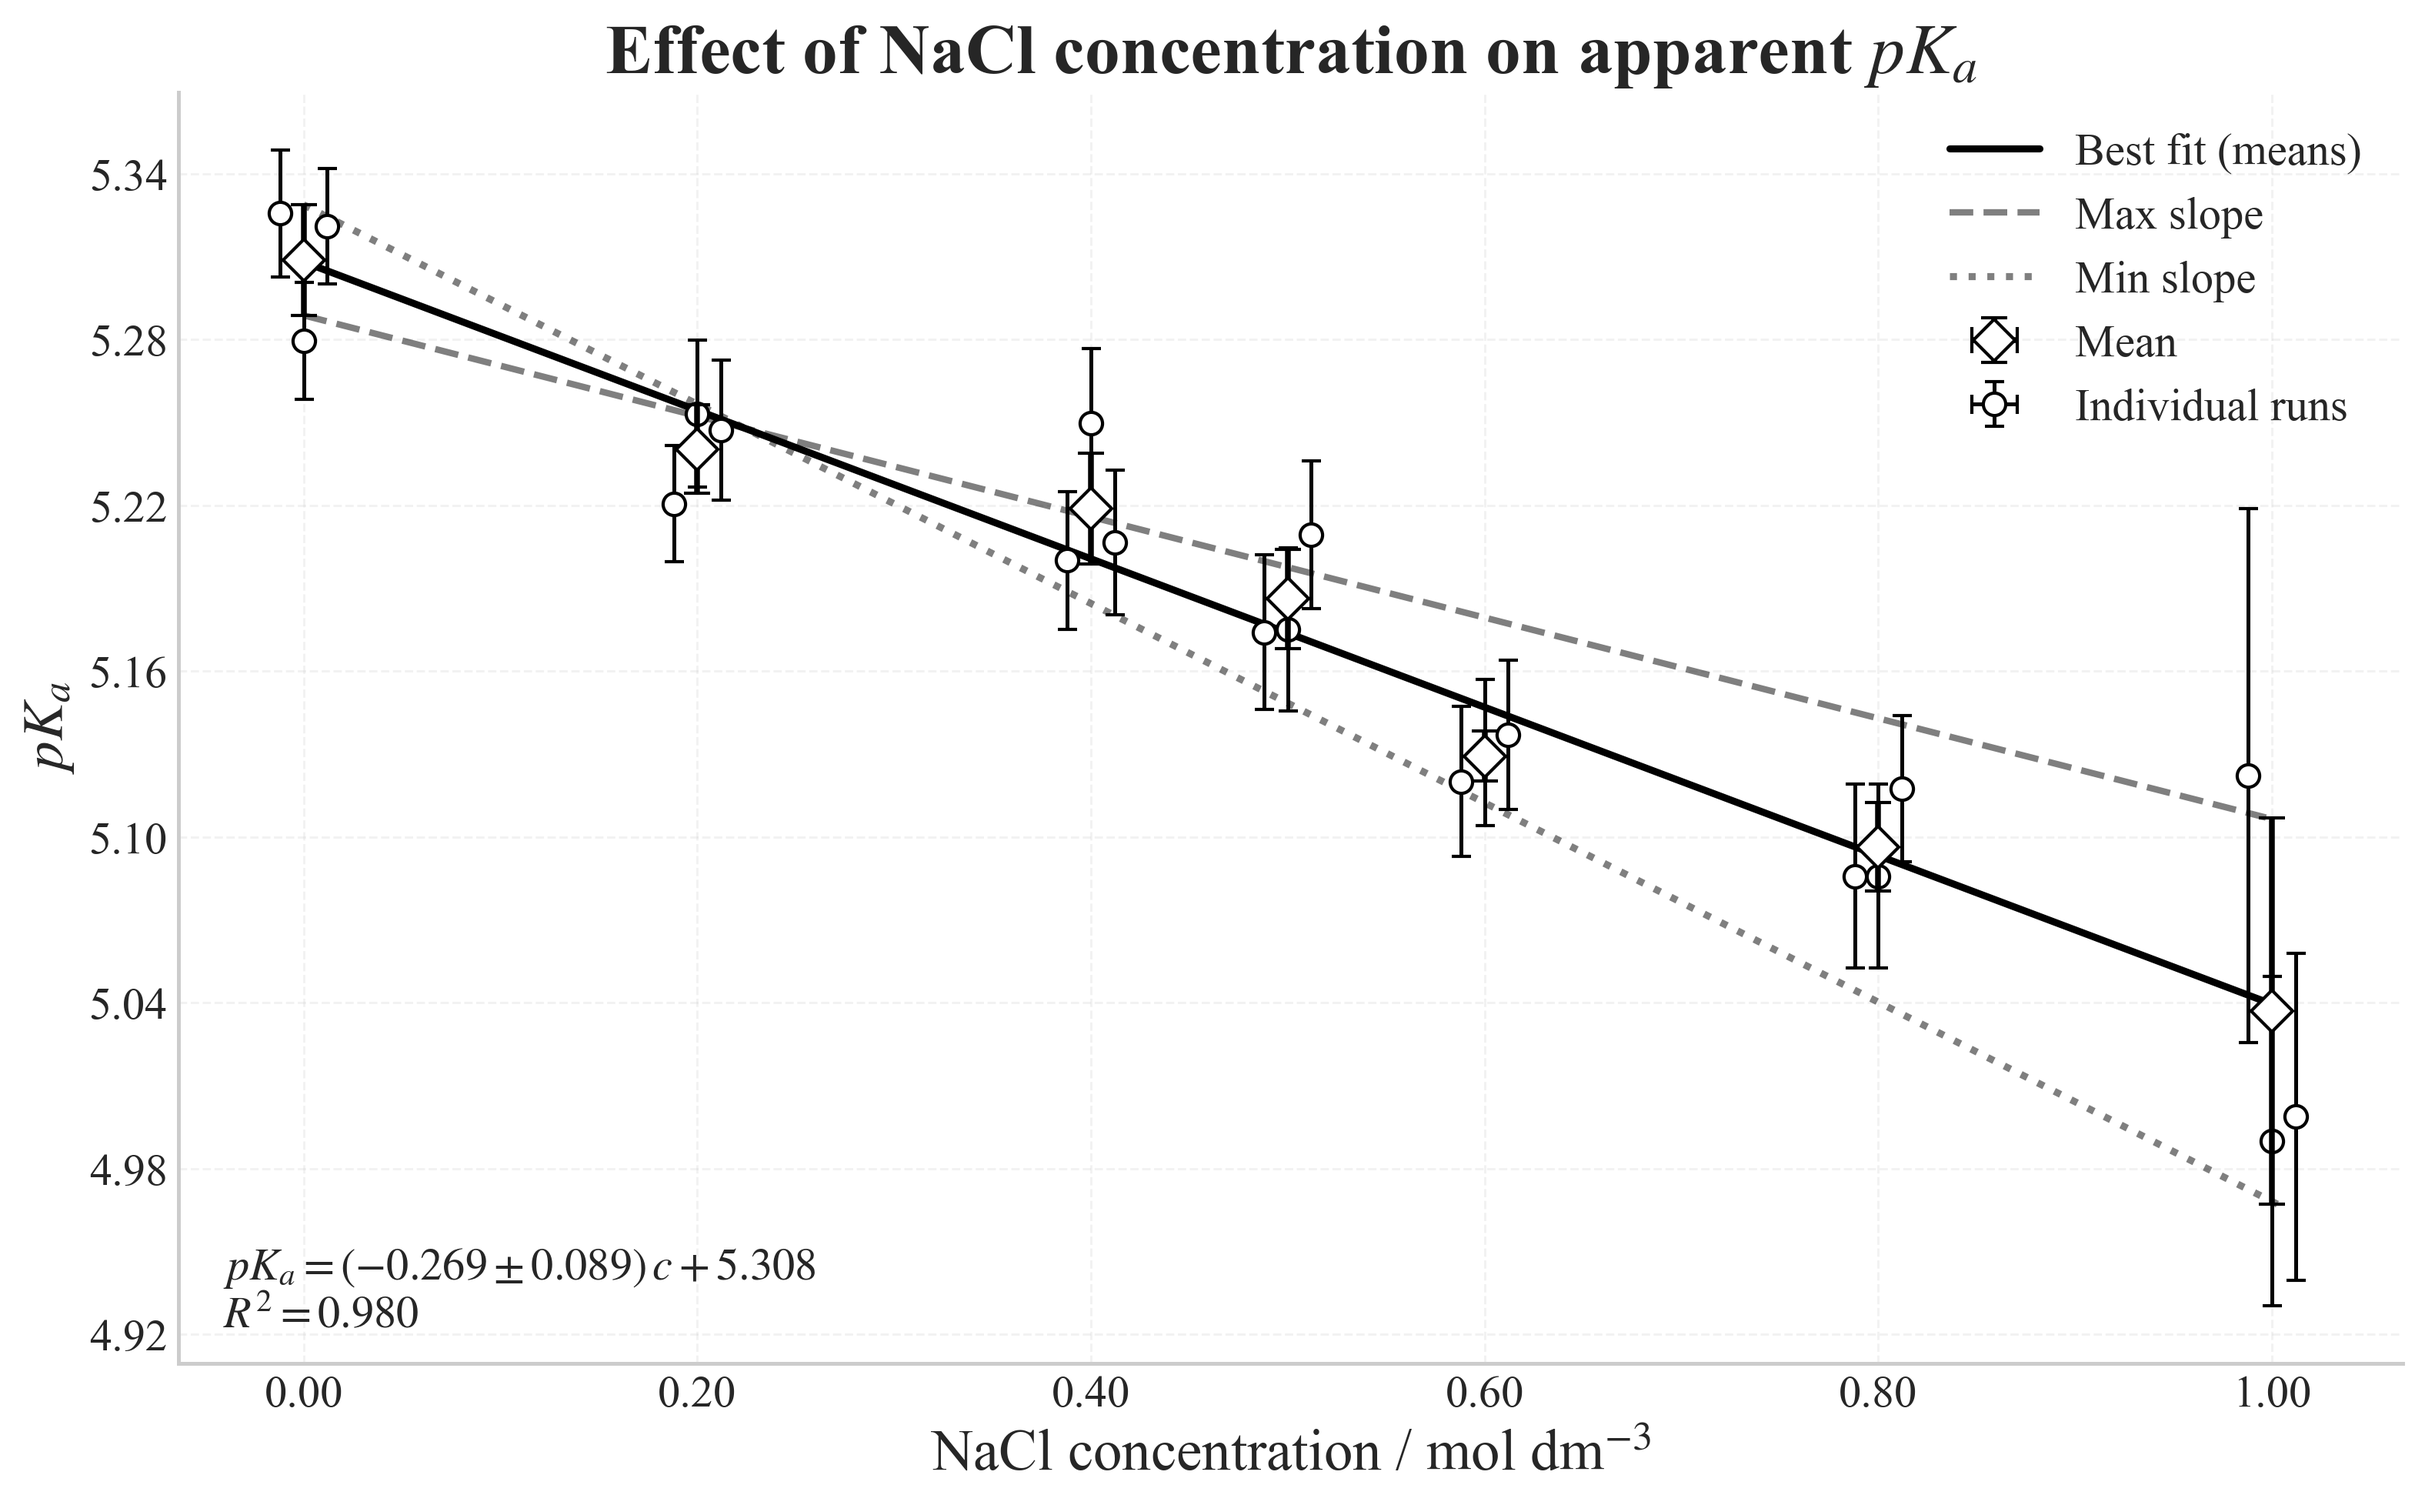
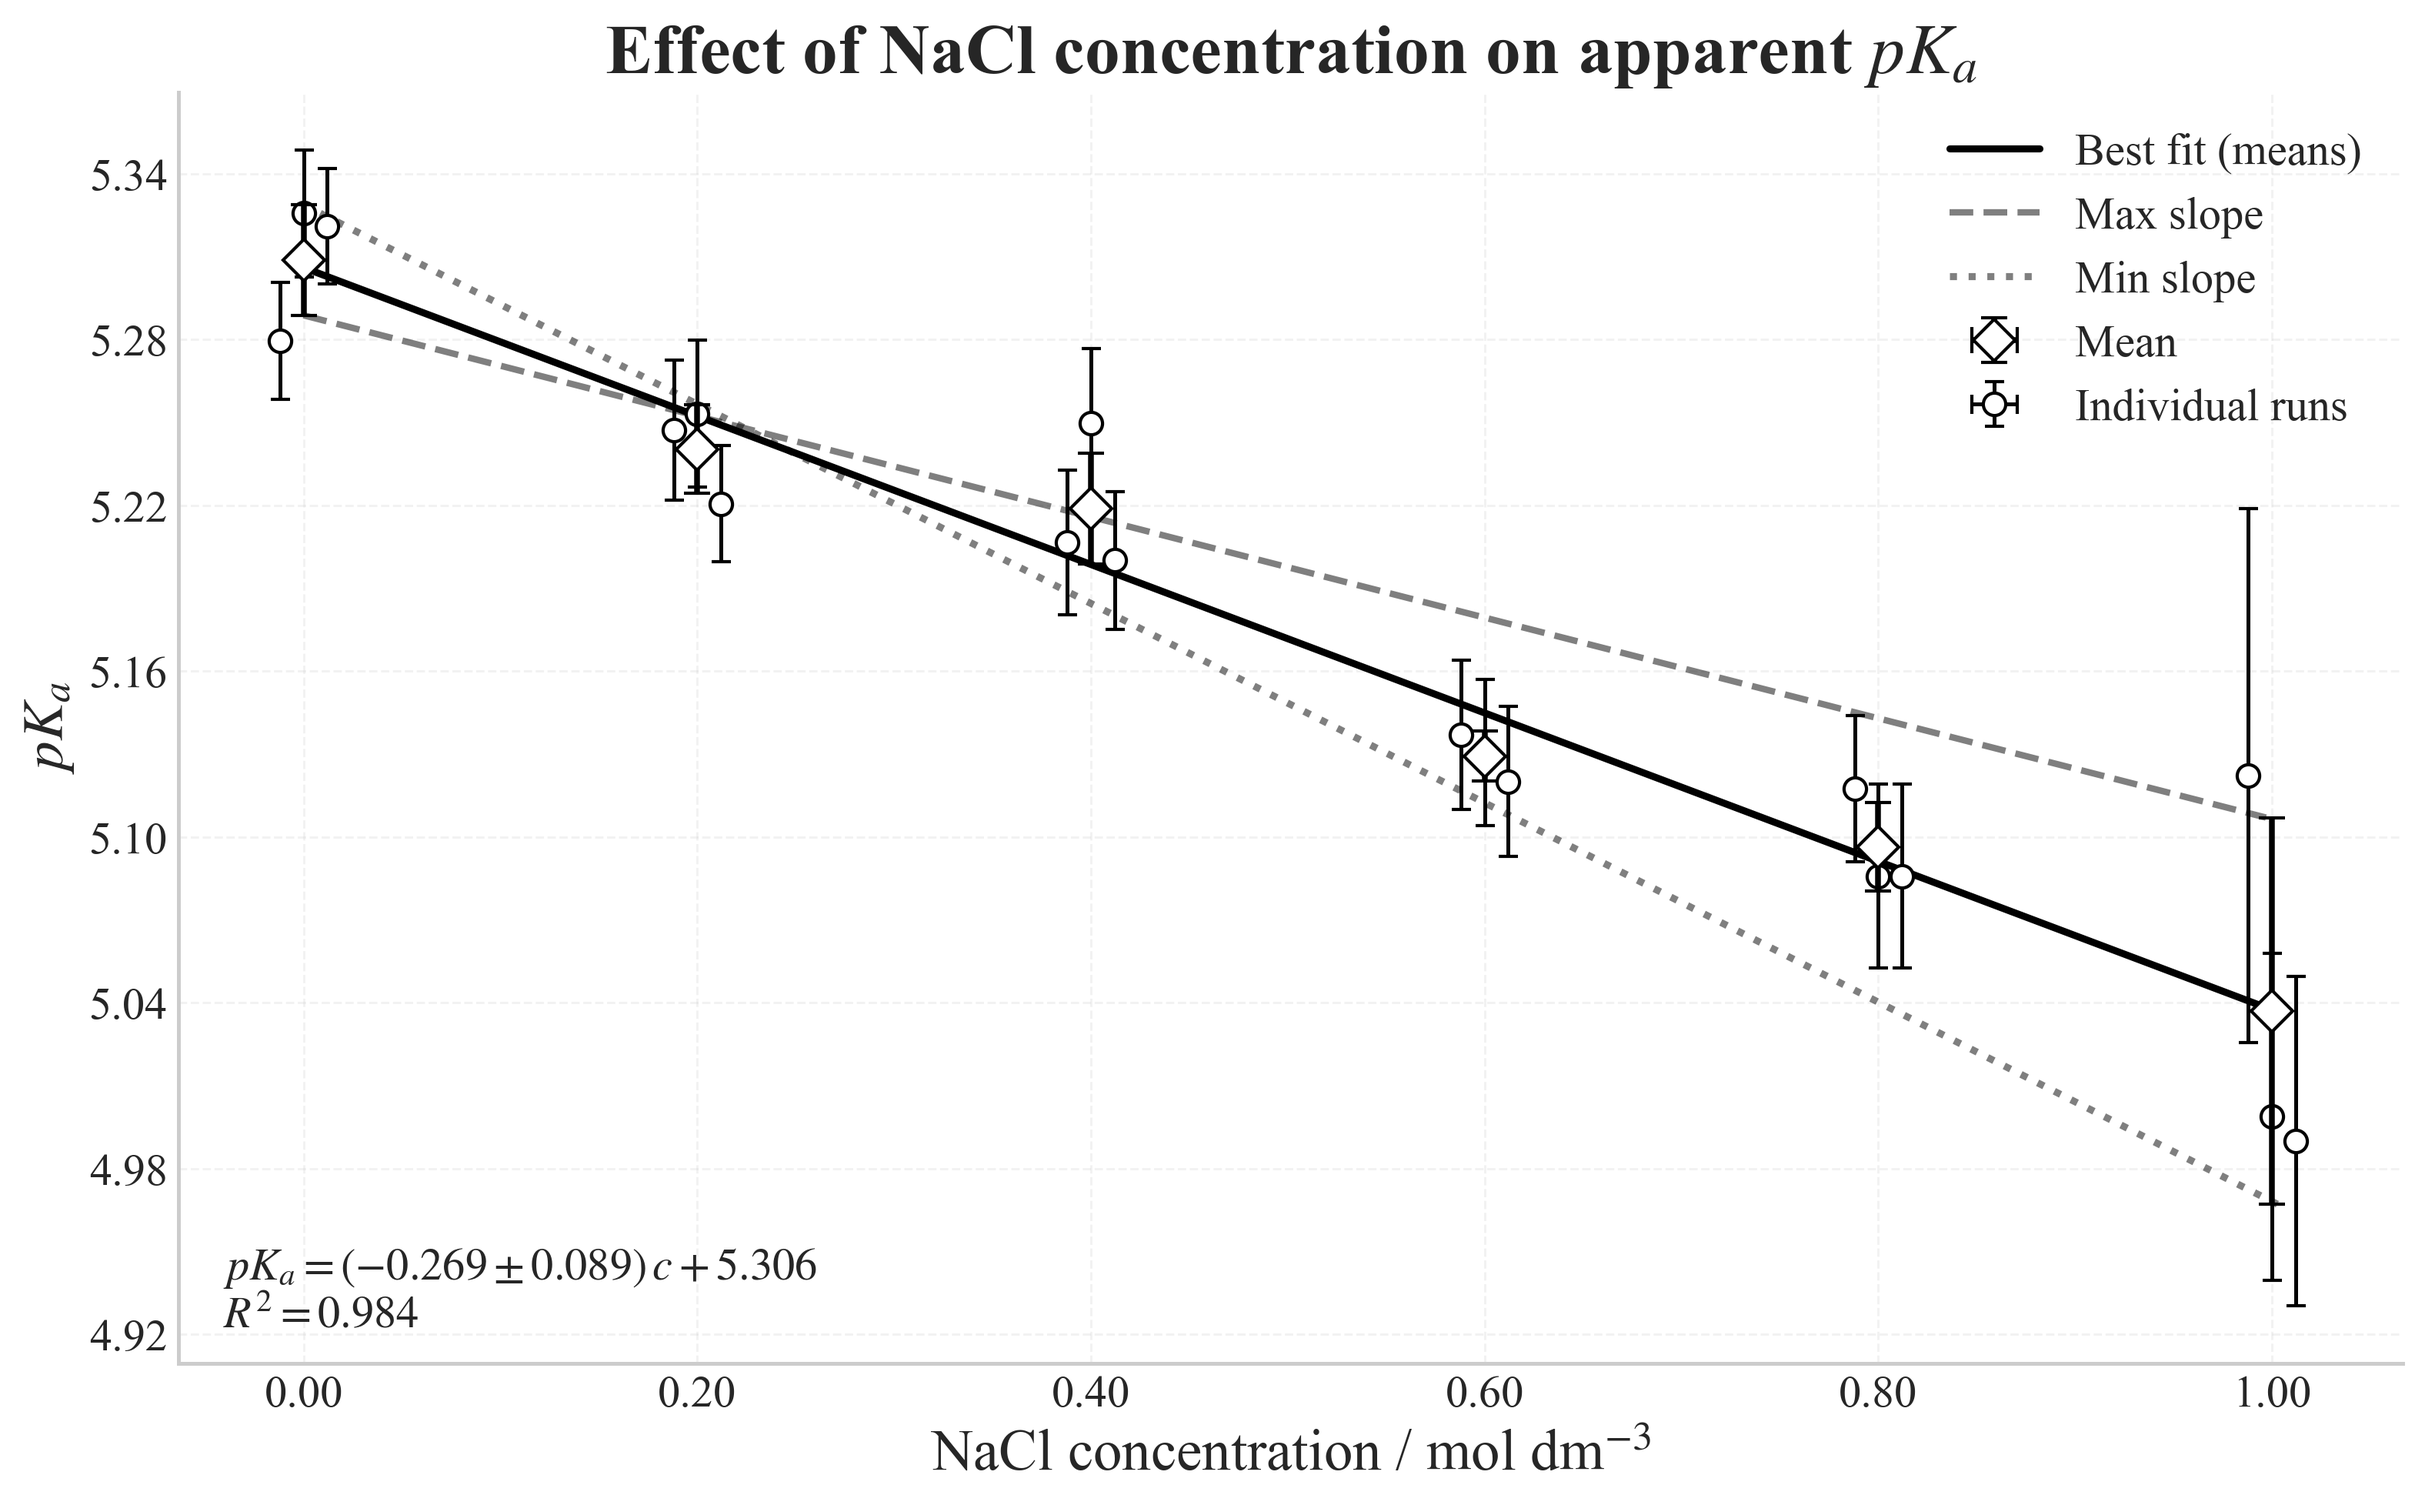
no need for 0.5 for checks anymore

diff --git a/main.py b/main.py
@@ -43,7 +43,7 @@ def main():
         ("data/ms besant go brr brr v2- 0.0m nacl.csv", 0.0),
         ("data/ms besant go brr brr v2- 0.2m nacl.csv", 0.2),
         ("data/ms besant go brr brr v2- 0.4m nacl.csv", 0.4),
-        ("data/ms besant go brr brr- 0.5m nacl.csv", 0.5),
+        # ("data/ms besant go brr brr- 0.5m nacl.csv", 0.5),
         ("data/ms besant go brr brr v2- 0.6m nacl.csv", 0.6),
         ("data/ms besant go brr brr- 0.8m nacl.csv", 0.8),
         ("data/ms besant go brr - 1m nacl.csv", 1.0),
